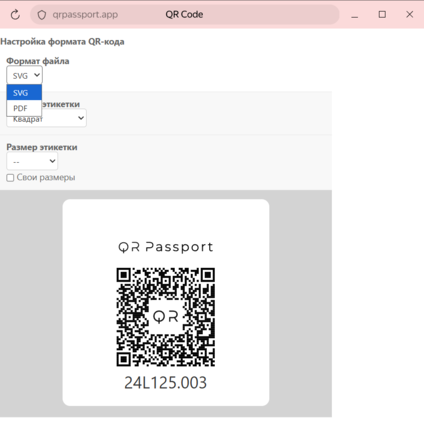
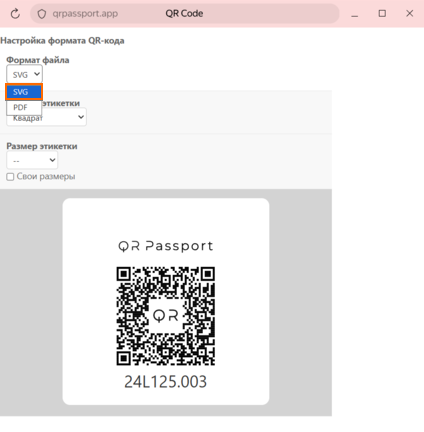
Добавлены изменения SVG

diff --git a/docs/ru/updates.md b/docs/ru/updates.md
@@ -1,16 +1,15 @@
 # История изменений
-## Сентябрь 2025
-### Улучшение
-Добавлена возможность прикреплять документы к конкретному изделию.
-
-Теперь при сканировании QR-кода на изделии будут отображаться не только общие документы модели, но и индивидуальные документы, прикрепленные именно к этому экземпляру изделия.
-
-![Документы для изделий](./_images/updates_1.png)
-
 ## Декабрь 2025
-### Улучшение
-Добавлена возможность скачивать QR-коды в векторном формате – SVG.
+### _QR-коды в векторном формате SVG_
 
-Теперь при скачивании QR-кода появилась возможность выбирать формат файла. Это позволяет использовать QR-коды не только для печати на принтерах, но и в производственных процессах, где требуется векторная графика – например, для нанесения на оборудование методами лазерной гравировки или фрезеровки.
+Добавлена возможность выбора формата файла при [скачивании QR-кода](equipment/registered_products.md#skachivanie-qr-koda/qr-kodov). Это позволяет использовать QR-коды не только для печати на принтерах, но и в производственных процессах, где требуется векторная графика – например, для нанесения на оборудование методами лазерной гравировки или фрезеровки.
 
 ![SVG формат](./_images/updates_2.png)
+
+
+## Сентябрь 2025
+### _Документы для изделий_
+
+Добавлена возможность прикрепления документов к изделию при его [регистрации](equipment/models.md#registraciya-izdeliya). Это позволяет при сканировании QR-кода отображать не только общие документы модели, но и индивидуальные документы, загруженные для конкретного экземпляра изделия.
+
+![Документы для изделий](./_images/updates_1.png)

diff --git a/docs/ru/equipment/registered_products.md b/docs/ru/equipment/registered_products.md
@@ -46,11 +46,12 @@
 
 {% endnote %}
 
-5. В выпадающем окне выберите формат этикетки: квадрат или прямоугольник 
-6. Выберите размер этикетки или введите свое значение
-7. Нажмите кнопку **Скачать QR-код**
+5. В выпадающем списке выберите формат файла: SVG или PDF 
+6. Выберите формат этикетки: квадрат или прямоугольник 
+7. Выберите размер этикетки или введите свое значение, выбрав галочку «_Свои размеры_»
+8. Нажмите кнопку **Скачать QR-код**
 
-{% cut "см. шаги 5-7" %}
+{% cut "см. шаги 5-8" %}
 
 ![Зарег_изделия_4](../_images/equipment_registered_products_4.png)
 
